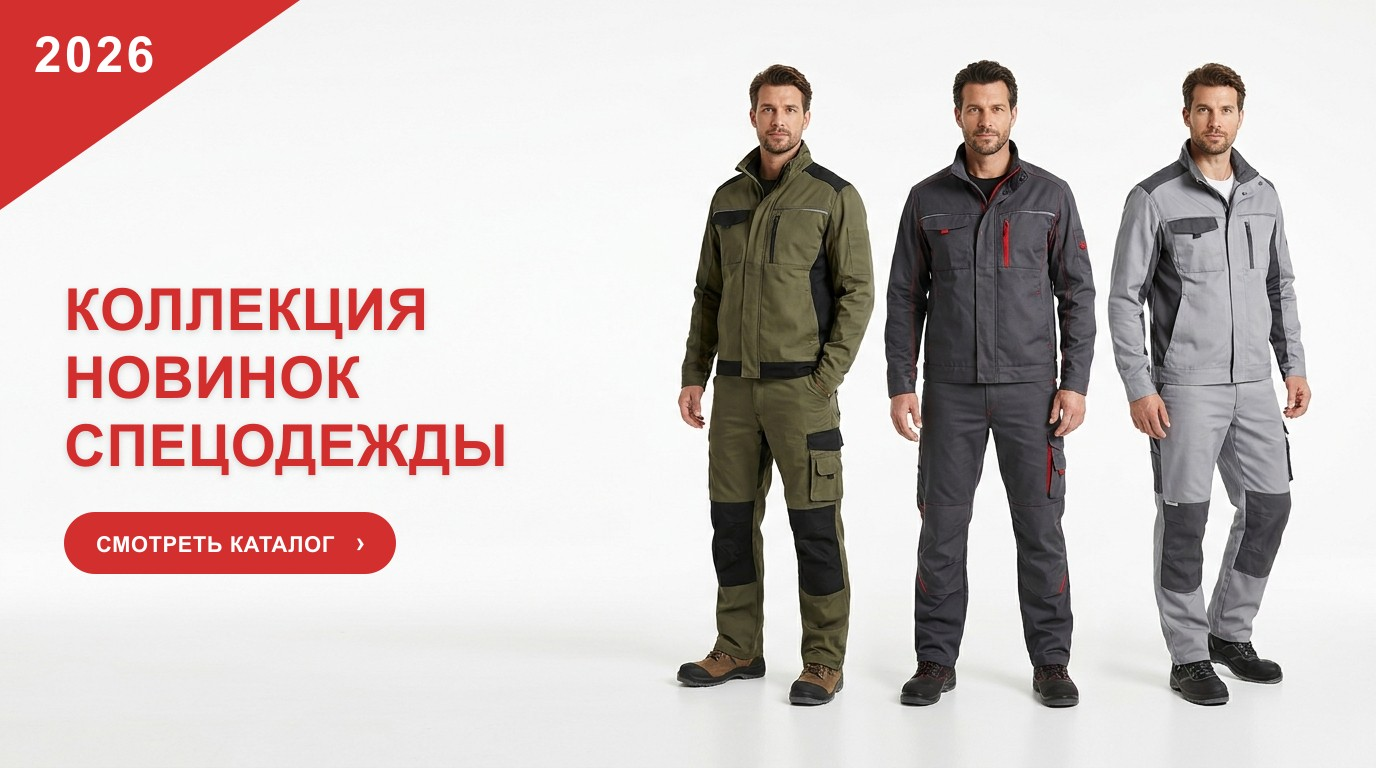
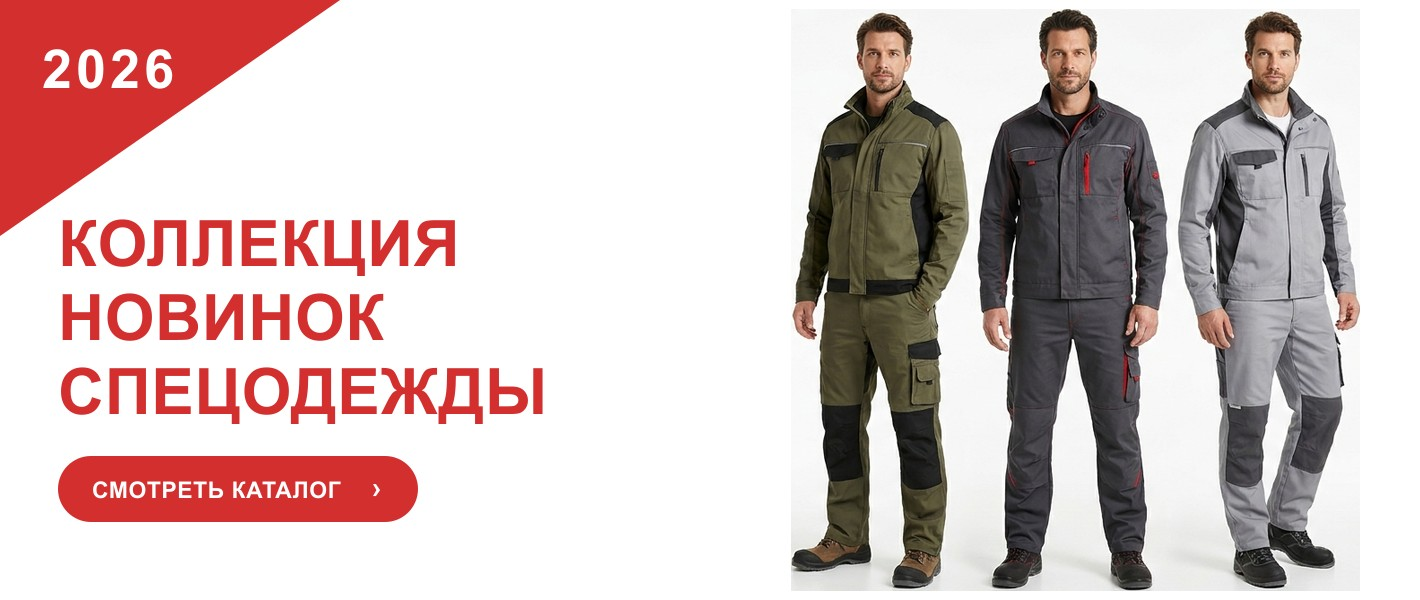
Баннер: отдельные изображения для desktop (широкий) и mobile (высокий) через <picture> + поле mobileUrl

diff --git a/app/(public)/page.tsx b/app/(public)/page.tsx
@@ -133,15 +133,17 @@ export default function HomePage() {
         ) : (
           <>
             <style>{`
-              .hero-banner-img { display: block; width: 100%; height: 400px; object-fit: contain; object-position: center; background: #fff; }
-              @media (max-width: 768px) { .hero-banner-img { height: auto; } }
+              .hero-banner-img { display: block; width: 100%; height: auto; background: #fff; }
             `}</style>
             <div style={{ display: 'flex', transition: 'transform .5s cubic-bezier(.4,0,.2,1)', transform: `translateX(-${current * 100}%)` }}>
               {banners.map((b: any) => {
                 const bare = b.ctaLink && !b.titleRu && !b.ctaText
                 const inner = (
                   <div style={{ width: '100%', background: '#fff', position: 'relative', overflow: 'hidden' }}>
-                    <img className="hero-banner-img" src={b.imageUrl} alt={b.titleRu || ''} />
+                    <picture>
+                      {b.mobileUrl && <source media="(max-width: 768px)" srcSet={b.mobileUrl} />}
+                      <img className="hero-banner-img" src={b.imageUrl} alt={b.titleRu || ''} />
+                    </picture>
                     {(b.titleRu || b.ctaText) && (
                       <div style={{ position: 'absolute', inset: 0, background: 'linear-gradient(to right, rgba(0,0,0,0.45) 0%, rgba(0,0,0,0.1) 50%, transparent 75%)', display: 'flex', alignItems: 'center', padding: '0 5%' }}>
                         <div style={{ maxWidth: 520, color: '#fff' }}>

diff --git a/prisma/seed.js b/prisma/seed.js
@@ -33,8 +33,8 @@ async function main() {
   // Banner — главный баннер «Коллекция новинок спецодежды 2026» (изображение с текстом, клик → /catalog)
   await prisma.banner.upsert({
     where: { id: 'banner-spec-2026' },
-    update: { imageUrl: '/banners/banner-spec-2026.jpg', ctaLink: '/catalog', order: 0 },
-    create: { id: 'banner-spec-2026', imageUrl: '/banners/banner-spec-2026.jpg', ctaLink: '/catalog', order: 0 },
+    update: { imageUrl: '/banners/banner-spec-2026.jpg', mobileUrl: '/banners/banner-spec-2026-mobile.jpg', ctaLink: '/catalog', order: 0 },
+    create: { id: 'banner-spec-2026', imageUrl: '/banners/banner-spec-2026.jpg', mobileUrl: '/banners/banner-spec-2026-mobile.jpg', ctaLink: '/catalog', order: 0 },
   });
 
   // Skip seeding if data already exists — preserve admin changes
